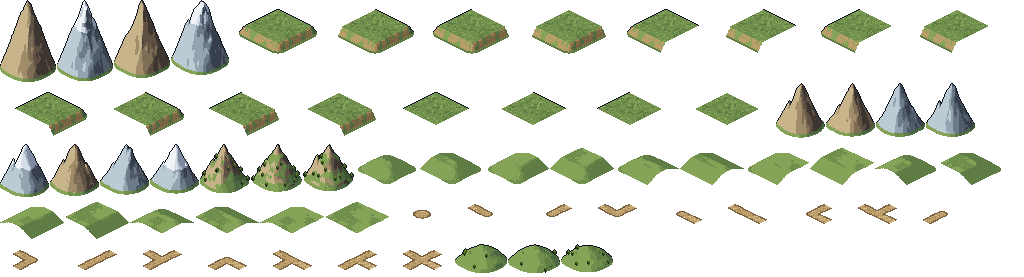
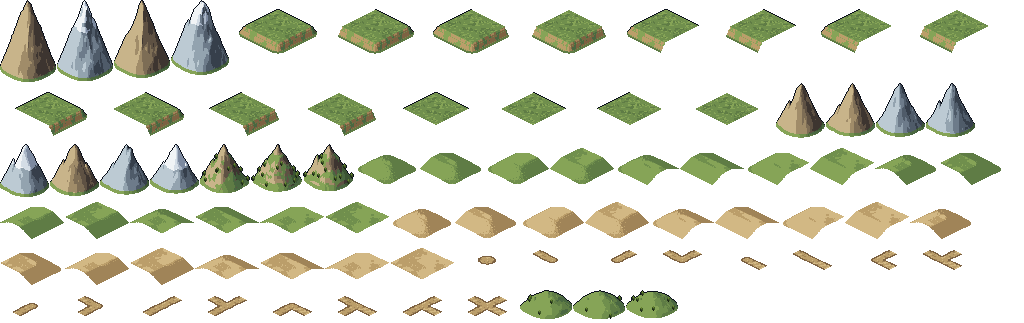
feat(map): add wasteland hill ground U with earth-toned knoll pieces

diff --git a/ver5/tools/worldmap/gen_terrain.py b/ver5/tools/worldmap/gen_terrain.py
@@ -15,7 +15,7 @@ diamond, x = 32(u - v), y = 16(u + v) - z with u, v in cells from the cell's cen
 
 terrain.json lists each piece's rect on the sheet, pivot (the cell centre on the ground) and layer (ground/object),
 the way assets/graphics/index.json lists "extra"; index.json's "terrain" names it and the game reads its pieces as
-props. The battle maps use the rolling hills (bt_knoll_*, ground u) and the mountains (wm_mtn_rock_*, wm_mtn_big_*,
+props. The battle maps use the rolling hills (bt_knoll_*, ground u; bt_knoll_d_* in wasteland earth, ground U) and the mountains (wm_mtn_rock_*, wm_mtn_big_*,
 ground n); the rest (other mountains, hills, roads, the flat-topped bt_hill_*) were drawn for a world map trial and
 are not used yet."""
 import argparse
@@ -350,10 +350,11 @@ def mesa(mask, seed=31):
 KNOLL = 7  # px: the rolling hill's crest, the height a unit standing on it is lifted by (the cell marks stay on the ground)
 
 
-def knoll(mask, seed=47):
+def knoll(mask, seed=47, material='grass'):
     """The rolling hill of one game cell: a low round rise KNOLL px high that runs on into the joined neighbours
     (mask bit i: (-1,0), (0,-1), (1,0), (0,1)) as one swell and falls to the ground at the open sides, inside the
-    cell. Only the picture is high: the cell is chosen and marked on the flat ground, as over the sunk water."""
+    cell. Only the picture is high: the cell is chosen and marked on the flat ground, as over the sunk water. material is the palette whose tone 3 is the
+    ground it rises from: grass for u, earth (the wasteland's sand) for the wasteland hill U."""
     from scipy import ndimage
     R = 48
     joined = [bool(mask & (1 << b)) for b in range(4)]
@@ -398,7 +399,7 @@ def knoll(mask, seed=47):
     grain = fbm(hu, hv, 11, seed, 2)
     tuft = fbm(hu, hv, 23, seed + 9, 1)
     img = np.zeros((hh, w, 4), np.uint8)
-    grass = PAL['grass']
+    grass = PAL[material]
     lit = n[..., 0] * LIGHT[0] + n[..., 1] * LIGHT[1]  # how far a slope turns to the light, ground level 0
     for j in range(hh):
         for i in range(w):
@@ -435,6 +436,7 @@ def pieces():
         out[f'wm_road_{m:02d}'] = (*road(m), 'ground')
         out[f'bt_hill_{m:02d}'] = (*mesa(m), 'ground')
         out[f'bt_knoll_{m:02d}'] = (*knoll(m), 'ground')
+        out[f'bt_knoll_d_{m:02d}'] = (*knoll(m, material='earth'), 'ground')
     return out
 
 

diff --git a/ver5/internal/gui/field_native.go b/ver5/internal/gui/field_native.go
@@ -77,13 +77,21 @@ func (f *Field) makeNativeFloors() {
 			f.bridges = append(f.bridges, f.bridgeEdges(x, y, at, px, py)...)
 		}
 	})
-	f.eachGameCell('u', func(x, y int, px, py float64) {
-		s := f.A.Props[fmt.Sprintf("bt_knoll_%02d", f.cellMask(x, y, 'u'))].Sprite
-		f.nativeGround = append(f.nativeGround, drawItem{rect: f.mapRect(s, px/K, py/K), draw: func() { f.blit(f.Canvas, s, px, py, nil) }})
-	})
+	for _, k := range []struct {
+		glyph byte
+		name  string
+	}{{'u', "bt_knoll_%02d"}, {'U', "bt_knoll_d_%02d"}} {
+		f.eachGameCell(k.glyph, func(x, y int, px, py float64) {
+			s := f.A.Props[fmt.Sprintf(k.name, f.cellMask(x, y, k.glyph))].Sprite
+			f.nativeGround = append(f.nativeGround, drawItem{rect: f.mapRect(s, px/K, py/K), draw: func() { f.blit(f.Canvas, s, px, py, nil) }})
+		})
+	}
 }
 
-// knollLift is how high a unit on a rolling hill (u) stands: the crest of its picture (tools/worldmap/gen_terrain.py
+// isKnoll reports a rolling hill: u on grass, U on wasteland.
+func isKnoll(t byte) bool { return t == 'u' || t == 'U' }
+
+// knollLift is how high a unit on a rolling hill (u, U) stands: the crest of its picture (tools/worldmap/gen_terrain.py
 // KNOLL). Only the unit rises; its cell's marks stay on the ground (markLift).
 const knollLift = 7
 

diff --git a/ver5/internal/cli/ascii.go b/ver5/internal/cli/ascii.go
@@ -16,7 +16,7 @@ import (
 // light_infantry); the player's units are capitalized, the enemy's lowercase, and the mark after
 // a glyph tells the side: ' ' the player, '+' an AI ally, '!' the enemy.
 
-var groundGlyph = map[byte]string{'g': "   ", 'd': " . ", 'l': " ' ", 's': " ; ", 'w': "~~~", 'c': "###", 'i': " _ ", 'h': "^^^", 'm': "[ ]", 'u': " n ", 'n': "MMM"}
+var groundGlyph = map[byte]string{'g': "   ", 'd': " . ", 'l': " ' ", 's': " ; ", 'w': "~~~", 'c': "###", 'i': " _ ", 'h': "^^^", 'm': "[ ]", 'u': " n ", 'U': " N ", 'n': "MMM"}
 var structureGlyph = map[byte]string{'t': "TRE", 'v': "VIL", 'k': "CMP", 'o': "CST", 'p': "PAS", 'b': "BRG", 'z': "FNC"}
 var stateGlyph = map[byte]string{'e': "EMB", 'F': "FIR", 'x': "xxx", 'O': "[O]"}
 

diff --git a/ver5/tools/mapgen/stage_ascii.py b/ver5/tools/mapgen/stage_ascii.py
@@ -32,7 +32,7 @@ OUT = ROOT / 'tools/mapgen/layouts/hero'
 sys.path.insert(0, str(ROOT / 'tools/scene_maps'))
 from scene_ascii import OFFICER  # noqa: E402  the same officer codes as the scene pictures
 
-GROUND = {'g': '...', 'd': ',,,', 'l': "'''", 's': ';;;', 'w': '~~~', 'c': '###', 'i': '___', 'h': '^^^', 'm': '[ ]', 'u': ' n ', 'n': 'MMM'}
+GROUND = {'g': '...', 'd': ',,,', 'l': "'''", 's': ';;;', 'w': '~~~', 'c': '###', 'i': '___', 'h': '^^^', 'm': '[ ]', 'u': ' n ', 'U': ' N ', 'n': 'MMM'}
 STRUCTURE = {'t': 'TRE', 'v': 'VIL', 'k': 'CMP', 'o': 'CST', 'p': 'PAS', 'b': 'BRG', 'z': 'FNC'}
 STATE = {'e': 'EMB', 'F': 'FIR', 'x': 'xxx', 'O': '[O]'}
 SIDES = (('Allies', 'player'), ('Party', 'ally'), ('Enemies', 'enemy'))

diff --git a/ver5/internal/gui/hud.go b/ver5/internal/gui/hud.go
@@ -660,7 +660,7 @@ var miniColors = map[byte]color.NRGBA{
 	'.': {104, 150, 72, 255}, 'd': {164, 142, 96, 255}, 'o': {120, 120, 132, 255}, 'f': {54, 100, 52, 255},
 	'c': {150, 150, 156, 255}, 'i': {190, 180, 160, 255}, 'v': {206, 150, 72, 255}, '~': {60, 110, 170, 255},
 	'b': {150, 100, 60, 255}, 'g': {110, 110, 118, 255}, 'k': {196, 120, 70, 255}, 'h': {132, 108, 72, 255},
-	's': {104, 116, 92, 255}, 'l': {150, 150, 90, 255}, 'u': {126, 160, 84, 255}, 'n': {118, 100, 76, 255},
+	's': {104, 116, 92, 255}, 'l': {150, 150, 90, 255}, 'u': {126, 160, 84, 255}, 'U': {176, 148, 98, 255}, 'n': {118, 100, 76, 255},
 }
 
 // miniScale is the largest number of minimap pixels per half cell width; a wide map shrinks

diff --git a/ver5/internal/gui/field.go b/ver5/internal/gui/field.go
@@ -236,7 +236,7 @@ func (f *Field) Lift(u, v int) float64 {
 		return -sunkDepth
 	} else if t == 's' && f.Map.SunkWater {
 		return -fordDepth
-	} else if t == 'u' && f.Map.Native {
+	} else if isKnoll(t) && f.Map.Native {
 		return knollLift
 	}
 	return 0
@@ -245,7 +245,7 @@ func (f *Field) Lift(u, v int) float64 {
 // markLift is how high a cell's marks (move range, goals) are drawn: on a wall's top, but on the flat ground over
 // sunk water and over a rolling hill, whose heights are only in the picture: the cell is chosen on the ground.
 func (f *Field) markLift(u, v int) float64 {
-	if f.Tile(u, v) == 'u' {
+	if isKnoll(f.Tile(u, v)) {
 		return 0
 	}
 	return max(0, f.Lift(u, v))

diff --git a/ver5/tools/mapgen/mapgen.py b/ver5/tools/mapgen/mapgen.py
@@ -6,6 +6,7 @@
 The layout is plain text: one row per line, one cell per three characters, cells separated by
 spaces: ground, structure, state (see Grounds, Structures and States in assets/data/game.json).
     ground     g grass, d wasteland, w water, c wall, m gate wall, i castle floor, h cliff, u rolling hill,
+               U wasteland hill,
                n mountain
     structure  - none, t tree, v village, k camp, o castle, p gate, b bridge, z fence
     state      - none, e embers, F flames, s soot, d damaged bridge, x broken bridge

diff --git a/ver5/assets/data/README.md b/ver5/assets/data/README.md
@@ -40,7 +40,7 @@ Scenes live in `assets/scenes.json`, not here.
 
 `mapeditor.json` defines terrain brush order, class families (including disabled choices),
 army tabs and officer-to-army membership. These labels remain content data, separate from faction colors.
-`Grounds.Surface` selects the ground atlas surface (0 water, 1 grass, 2 wasteland).
+`Grounds.Surface` selects the ground atlas surface (0 water, 1 grass, 2 wasteland). Ground `U` (wasteland hill) behaves like `u` (rolling hill, grass) but stands on the wasteland surface and draws `bt_knoll_d_*`.
 `Class.Family`, when present, overrides the movement group used for editor family selection.
 
 Stage spawns can override `Class`, `Level`, `Facing` (`NE SE SW NW`),
